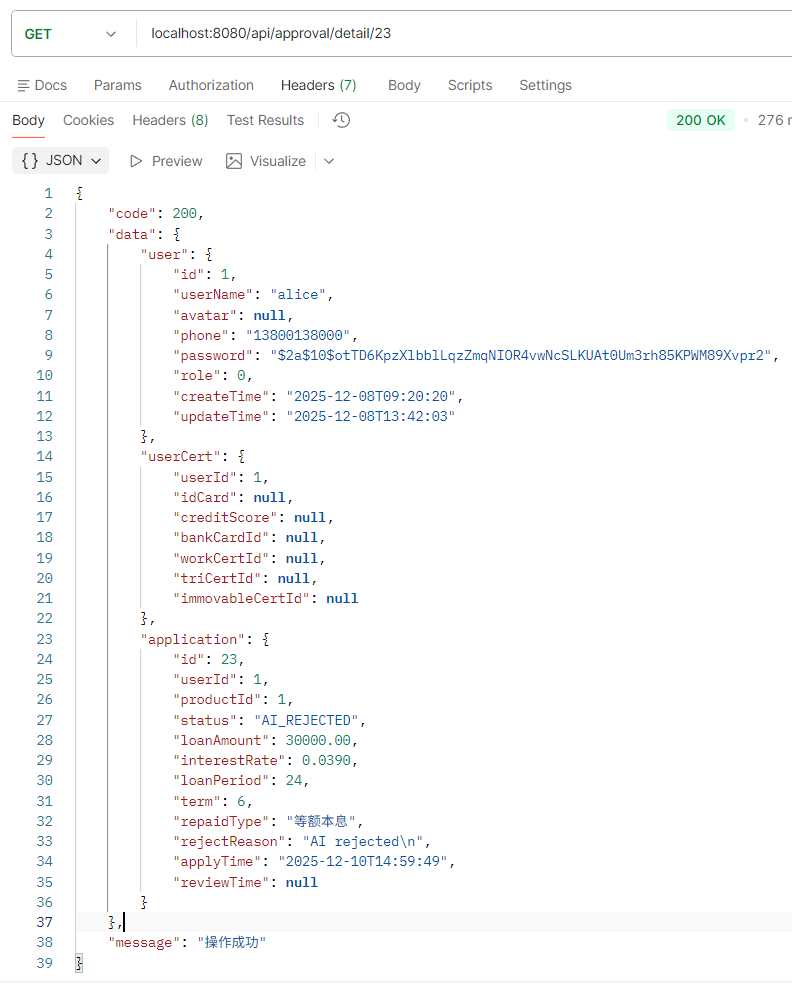
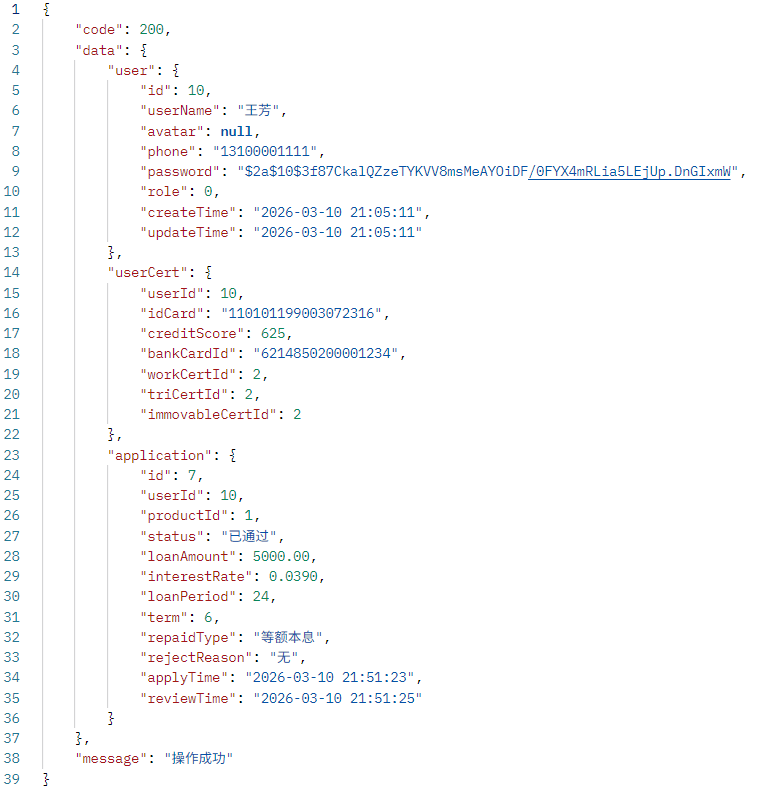
修复bug

diff --git a/project/backend/personal-loan/src/main/java/com/example/personal_loan/service/impl/AuthServiceImpl.java b/project/backend/personal-loan/src/main/java/com/example/personal_loan/service/impl/AuthServiceImpl.java
@@ -63,8 +63,6 @@ public class AuthServiceImpl implements AuthService{
             MultipartFile socialSecurityFile,
             MultipartFile creditReportFile) {
 
-        log.info("开始提交认证材料: userId={}, idCard={}, bankCardId={}", userId, idCard, bankCardId);
-
         // 1. 验证身份证号和银行卡号
         if (idCard.isBlank() || !IdCardUtils.isValid(idCard)) {
             throw new BusinessException(400, "身份证号不能为空或格式无效");
@@ -78,34 +76,39 @@ public class AuthServiceImpl implements AuthService{
         UserCert userCert = userCertMapper.selectByUserId(userId);
 
         // 3. 存储所有文件（任一失败则整体回滚）
-        log.info("开始存储所有认证文件...");
+        log.info("begin store all auth files:...");
         String propertyPath = storeRequiredFile(propertyFile, "property", userId, fileStorageConfig.getPaths().getPropertyProof());
         String carPath = storeRequiredFile(carFile, "car", userId, fileStorageConfig.getPaths().getCarProof());
         String empPath = storeRequiredFile(employmentFile, "employment", userId, fileStorageConfig.getPaths().getEmploymentProof());
         String salPath = storeRequiredFile(salaryFile, "salary", userId, fileStorageConfig.getPaths().getSalaryProof());
         String ssPath = storeRequiredFile(socialSecurityFile, "social", userId, fileStorageConfig.getPaths().getSocialSecurity());
         String crPath = storeRequiredFile(creditReportFile, "credit", userId, fileStorageConfig.getPaths().getCreditReport());
-        log.info("所有文件存储完成: propertyPath={}, carPath={}, empPath={}, salPath={}, ssPath={}, crPath={}", 
+        log.info("all auth files are stored successfully: propertyPath={}, carPath={}, empPath={}, salPath={}, ssPath={}, crPath={}", 
             propertyPath, carPath, empPath, salPath, ssPath, crPath);
 
         // 4. 处理不动产认证
         handleImmovablesCert(userCert, propertyPath, carPath);
-        log.info("不动产认证处理完成: immovableCertId={}", userCert.getImmovableCertId());
+        log.info("immovable cert is handled successfully: immovableCertId={}", userCert.getImmovableCertId());
 
         // 5. 处理工作认证
         handleWorkCert(userCert, empPath, salPath);
-        log.info("工作认证处理完成: workCertId={}", userCert.getWorkCertId());
+        log.info("work cert is handled successfully: workCertId={}", userCert.getWorkCertId());
 
         // 6. 处理第三方认证
         handleTriCert(userCert, ssPath, crPath);
-        log.info("第三方认证处理完成: triCertId={}", userCert.getTriCertId());
+        log.info("tri cert is handled successfully: triCertId={}", userCert.getTriCertId());
 
-        // 7. 更新主表中的文本字段
+        int score = calScore(userId);
+
+        // 8. 更新主表中的贷款分数
+        userCert.setCreditScore(score);
+
+        // 9. 更新主表中的文本字段
         userCert.setIdCard(idCard);
         userCert.setBankCardId(bankCardId);
         userCertMapper.update(userCert);
         
-        log.info("认证材料提交成功: userId={}", userId);
+        log.info("all auth materials are submitted successfully: userId={}", userId);
     }
 
     // 计算贷款分数(125x6=750)
@@ -218,7 +221,6 @@ public class AuthServiceImpl implements AuthService{
                 ));
             }
         }
-        userCert.setCreditScore(calScore(userId));
         return new GetCertResponse(userCert, workCert, triCert, immovablesCert);
     }
 
@@ -228,22 +230,25 @@ public class AuthServiceImpl implements AuthService{
 
     // }
 
-
     // 工具方法
-
+    // 存储文件
     private String storeRequiredFile(MultipartFile file, String type, Long userId, String basePath) {
         if (file == null || file.isEmpty()) {
-            log.warn("文件为空，跳过存储: type={}, userId={}", type, userId);
+            log.warn("file is empty: type={}, userId={}", type, userId);
             return null;
         }
-        log.info("开始存储文件: type={}, userId={}, originalFilename={}, size={}", 
+        log.info("begin store file: type={}, userId={}, originalFilename={}, size={}", 
             type, userId, file.getOriginalFilename(), file.getSize());
         String storedPath = fileStorageService.storeFile(file, type, userId, basePath);
-        log.info("文件存储成功: type={}, userId={}, storedPath={}", type, userId, storedPath);
+        log.info("The file is stored successfully: type={}, userId={}, storedPath={}", type, userId, storedPath);
         return storedPath;
     }
 
+    // 处理不动产认证
     private void handleImmovablesCert(UserCert userCert, String propertyPath, String carPath) {
+        if (propertyPath == null && carPath == null) {
+            return; // 无有效数据，跳过处理
+        }
         ImmovablesCert cert = new ImmovablesCert();
         cert.setPropertyCertPath(propertyPath);
         cert.setCarCertPath(carPath);
@@ -259,7 +264,12 @@ public class AuthServiceImpl implements AuthService{
         }
     }
 
+    // 处理工作认证
     private void handleWorkCert(UserCert userCert, String empPath, String salPath) {
+        if (empPath == null && salPath == null) {
+            return; // 无有效数据，跳过处理
+        }
+
         WorkCert cert = new WorkCert();
         cert.setEmploymentCertPath(empPath);
         cert.setSalaryCertPath(salPath);
@@ -274,7 +284,12 @@ public class AuthServiceImpl implements AuthService{
         }
     }
 
+    // 处理第三方认证
     private void handleTriCert(UserCert userCert, String ssPath, String crPath) {
+        if (ssPath == null && crPath == null) {
+            return; // 无有效数据，跳过处理
+        }
+
         TriCert cert = new TriCert();
         cert.setSocialSecurityPath(ssPath);
         cert.setCreditReportPath(crPath);

diff --git a/project/backend/personal-loan/src/main/java/com/example/personal_loan/service/impl/UserServiceImpl.java b/project/backend/personal-loan/src/main/java/com/example/personal_loan/service/impl/UserServiceImpl.java
@@ -132,8 +132,6 @@ public class UserServiceImpl implements UserService {
         return new RegisterResponse(user.getId(), user.getUserName(), user.getCreateTime());
     }
 
-
-
     @Override
     public void deleteUser(Long id) {
         userMapper.delete(id);
@@ -255,6 +253,7 @@ public class UserServiceImpl implements UserService {
 
     // 上传头像
     @Override
+    @Transactional
     public String uploadAvatar(Long userId, MultipartFile file){
         // 1. 校验文件非空
         if (file.isEmpty()) {
@@ -363,6 +362,10 @@ public class UserServiceImpl implements UserService {
         }
 
         // 检查level范围
+        if (blackLevel < 1 || blackLevel > 3) {
+            throw new BusinessException(400, "黑名单级别必须在1-3之间");
+        }
+
         BlackUser blackUser = new BlackUser();
         blackUser.setUserId(userId);
         blackUser.setBlackLevel(blackLevel);
@@ -381,7 +384,7 @@ public class UserServiceImpl implements UserService {
             throw new BusinessException(403,"权限不足");
         }
 
-        BlackUser blackUser = blackListMapper.selectByUserId(userId);
+        BlackUser blackUser = blackListMapper.selectActiveByUserId(userId);
         if (blackUser == null) {
             throw new BusinessException(404,"用户不在黑名单中");
         }

diff --git a/project/backend/document/接口文档/ManualApprove.md b/project/backend/document/接口文档/ManualApprove.md
@@ -112,9 +112,9 @@
 
 |字段名|类型|是否必填|说明|示例值|
 |---|---|---|---|---|
-| loanApplicationId | integer | 是 | 申请id | 23 |
+| loanApplicationId | integer | 是 | 申请id | 7 |
 
-**请求示例（网址）** /api/approval/detail/23
+**请求示例（网址）** /api/approval/detail/7
 
 **返回数据**
 
@@ -123,37 +123,37 @@
     "code": 200,
     "data": {
         "user": {
-            "id": 1,
-            "userName": "alice",
+            "id": 10,
+            "userName": "王芳",
             "avatar": null,
-            "phone": "13800138000",
-            "password": "$2a$10$otTD6KpzXlbblLqzZmqNIOR4vwNcSLKUAt0Um3rh85KPWM89Xvpr2",
+            "phone": "13100001111",
+            "password": "$2a$10$3f87CkalQZzeTYKVV8msMeAYOiDF/0FYX4mRLia5LEjUp.DnGIxmW",
             "role": 0,
-            "createTime": "2025-12-08T09:20:20",
-            "updateTime": "2025-12-08T13:42:03"
+            "createTime": "2026-03-10 21:05:11",
+            "updateTime": "2026-03-10 21:05:11"
         },
         "userCert": {
-            "userId": 1,
-            "idCard": null,
-            "creditScore": null,
-            "bankCardId": null,
-            "workCertId": null,
-            "triCertId": null,
-            "immovableCertId": null
+            "userId": 10,
+            "idCard": "110101199003072316",
+            "creditScore": 625,
+            "bankCardId": "6214850200001234",
+            "workCertId": 2,
+            "triCertId": 2,
+            "immovableCertId": 2
         },
         "application": {
-            "id": 23,
-            "userId": 1,
+            "id": 7,
+            "userId": 10,
             "productId": 1,
-            "status": "AI_REJECTED",
-            "loanAmount": 30000.00,
+            "status": "已通过",
+            "loanAmount": 5000.00,
             "interestRate": 0.0390,
             "loanPeriod": 24,
             "term": 6,
             "repaidType": "等额本息",
-            "rejectReason": "AI rejected\n",
-            "applyTime": "2025-12-10T14:59:49",
-            "reviewTime": null
+            "rejectReason": "无",
+            "applyTime": "2026-03-10 21:51:23",
+            "reviewTime": "2026-03-10 21:51:25"
         }
     },
     "message": "操作成功"

diff --git a/project/backend/document/接口文档/User.md b/project/backend/document/接口文档/User.md
@@ -148,6 +148,7 @@
 **postman测试结果**
 
 ![](../UserImgs/addBlackList.png "添加用户进黑名单成功")
+![](../UserImgs/blackLevelFalse.png "黑名单等级错误,必须在1-3之间")
 
 **日志**
 
@@ -235,32 +236,16 @@
     "code": 200,
     "data": [
         {
-            "userId": 1,
-            "userName": "alice",
-            "creditScore": null,
-            "loanStatus": "逾期",
+            "userId": 10,
+            "userName": "王芳",
+            "creditScore": 625,
+            "loanStatus": "正常",
             "totalTransactionCount": 0,
-            "totalLoanAmount": 90000.00
+            "totalLoanAmount": 15000.00
         },
         {
-            "userId": 2,
+            "userId": 11,
             "userName": "张伟",
-            "creditScore": null,
-            "loanStatus": "无借贷",
-            "totalTransactionCount": 0,
-            "totalLoanAmount": 0
-        },
-        {
-            "userId": 7,
-            "userName": "李华",
-            "creditScore": null,
-            "loanStatus": "无借贷",
-            "totalTransactionCount": 0,
-            "totalLoanAmount": 0
-        },
-        {
-            "userId": 8,
-            "userName": "李四",
             "creditScore": null,
             "loanStatus": "无借贷",
             "totalTransactionCount": 0,
